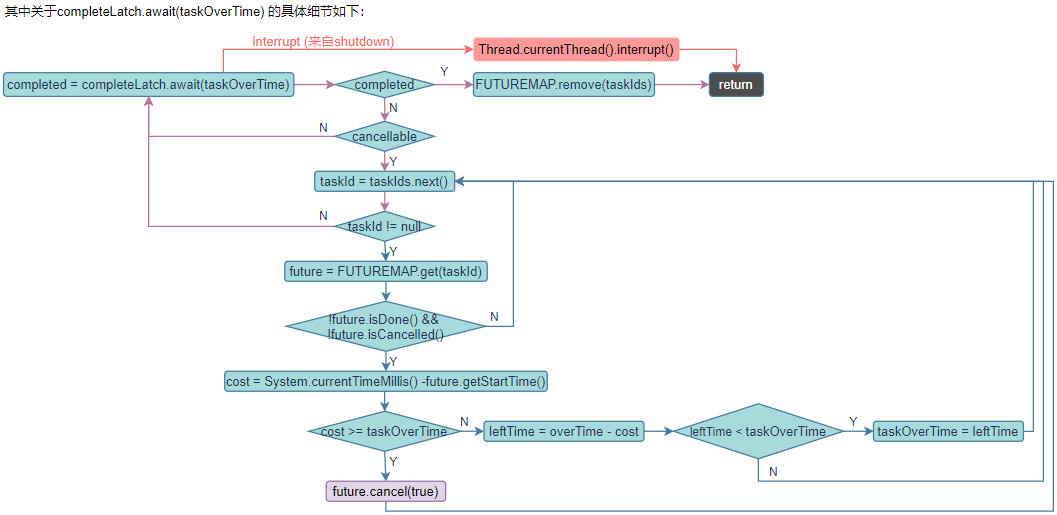
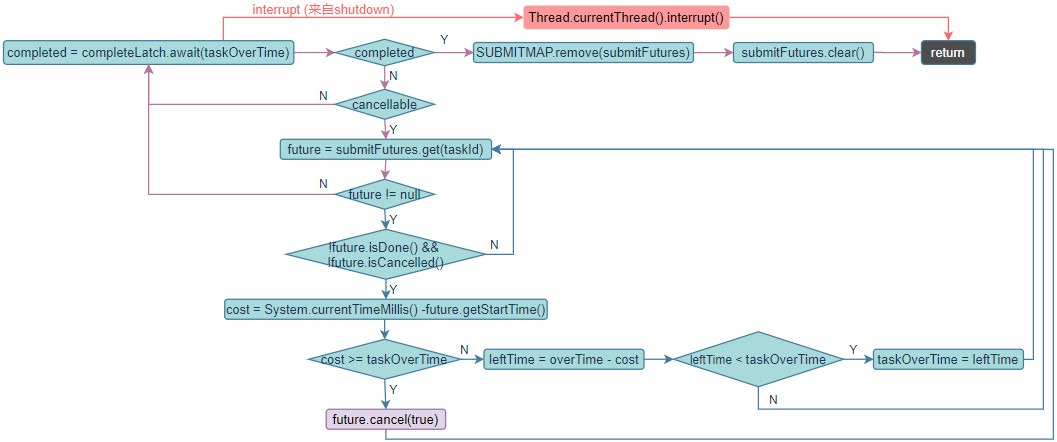
Site updated: 2021-03-10 01:10:26

Changed region(s): [[0.0, 0.0, 0.9991, 1.0]]

diff --git a/2019/07/02/20190702/index.html b/2019/07/02/20190702/index.html
@@ -6,7 +6,8 @@
   <title>借助ThreadPool实现定时任务. 一. 详细设计 | Essay</title>
   <meta name="author" content="shanhm1991">
   
-  <meta name="description" content="引言">
+  <meta name="description" content="引言写这个工具最开始是为了处理各种离线数据文件的需求，涉及到定时处理或者批处理等等，当时也是因为条件有限所以就自己造了这样一个轮子，也由于是为了文件处理，所以就取名为fom。fom中以Context为模块单位，其在内部维护了一个线程池和一个自定义的轮询线程来控制任务的执行计划，并自定义了一套状态转换机制。对于具体的任务则抽象为Task，其相当于在Callable的基础上定义了一个执行的方法模板，
+并加了一些限制，比如强制要求任务id。至于其它操作和功能都是在Context和Task这两个基础上进行，本质上还是围绕着线程池在实现。">
   
   
   <meta name="viewport" content="width=device-width, initial-scale=1, maximum-scale=1">
@@ -85,7 +86,7 @@
 <script async src="//busuanzi.ibruce.info/busuanzi/2.3/busuanzi.pure.mini.js"></script>
 
 
-   <font style="color: #999;"> words: 451  &nbsp;&nbsp; views: <span id="busuanzi_value_page_pv"></span> &nbsp;&nbsp; time: 1min</font>
+   <font style="color: #999;"> words: 2.4k  &nbsp;&nbsp; views: <span id="busuanzi_value_page_pv"></span> &nbsp;&nbsp; time: 10min</font>
    
    
   
@@ -111,25 +112,52 @@
       
     <div class="e-content entry" itemprop="articleBody">
       
-        <h2 id="引言"><a href="#引言" class="headerlink" title="引言"></a>引言</h2><a id="more"></a>
+        <h2 id="引言"><a href="#引言" class="headerlink" title="引言"></a>引言</h2><p>写这个工具最开始是为了处理各种离线数据文件的需求，涉及到定时处理或者批处理等等，当时也是因为条件有限所以就自己造了这样一个轮子，也由于是为了文件处理，所以就取名为fom。<br>fom中以Context为模块单位，其在内部维护了一个线程池和一个自定义的轮询线程来控制任务的执行计划，并自定义了一套状态转换机制。对于具体的任务则抽象为Task，其相当于在Callable的基础上定义了一个执行的方法模板，
+并加了一些限制，比如强制要求任务id。至于其它操作和功能都是在Context和Task这两个基础上进行，本质上还是围绕着线程池在实现。</p>
+<a id="more"></a>
 
-
-<h3 id="1-支持功能"><a href="#1-支持功能" class="headerlink" title="1. 支持功能"></a>1. 支持功能</h3><ol>
-<li>支持三种定时语义(与spring schedule一样)，cron：按时间计划表执行；fixedRate：任务开始后等待指定时间执行；fixedDelay：任务结束后等待指定时间执行；</li>
-<li>支持动态关闭或启动定时任务，不需要重启服务，并可以自定义关闭时的事件处理；</li>
-<li>支持手动执行任务，即如果还没到设置的执行时间，可以手动使其立即执行，同时也可以手动提交任务（因为本身内部是就是利用的线程池）；</li>
-<li>支持任务超时设置，即当任务执行超过设置时间后，可以及时主动中断任务</li>
-<li>支持任务冲突，限制每个任务都必须有一个全局唯一的id，如果id已经存在对应的任务并且还没有结束，则id对应的当前任务会被忽略；</li>
+<h3 id="1-功能实现"><a href="#1-功能实现" class="headerlink" title="1. 功能实现"></a>1. 功能实现</h3><ol>
+<li>支持三种定时语义(类似spring schedule)，cron：按时间计划表执行；fixedRate：任务开始后等待指定时间执行；fixedDelay：任务结束后等待指定时间执行；</li>
+<li>支持动态关闭(shutDown)或启动(startup)定时任务，不需要重启服务，并可以自定义关闭时的事件处理onScheduleTerminate；</li>
+<li>支持手动执行任务，即如果还没到设置的执行时间，可以手动使其立即执行(execNow)，同时也可以手动提交任务（因为本身内部是就是利用的线程池）；</li>
+<li>支持任务超时检测，即当任务执行超过设置时间后，可以及时主动中断任务</li>
+<li>支持任务冲突检测，限制每个任务都必须有一个全局唯一的id，如果id已存在对应的任务并且还未结束，则id对应的当前任务会被忽略；</li>
 <li>支持实时修改定时计划等配置，以及其它自定义配置；</li>
 <li>支持持久化，即配置修改完之后如果重启，修改依然生效；</li>
-<li>支持批任务，即可以定时执行一批任务集合，并且可以定义批任务全部执行完成时的事件处理（当然上面单个任务同样也可以），在事件中可以拿到当前批任务结果（其实也支持手动提交，如果没有定时可以将其当成CompletionService）</li>
-<li>支持一些的简单的界面运维，比如查看任务统计或者正在执行的任务堆栈，下载已经完成任务结果数据，实时修改定时任务的配置或状态等等</li>
+<li>支持批任务，即可以定时执行一批任务集合，并且可以定义批任务全部执行完成时的事件处理onScheduleComplete（当然上面单个任务同样也可以），在事件中可以拿到当前批任务结果（其实也支持手动提交，如果没有定时可以将其当成CompletionService）</li>
+<li>支持一些的简单的界面运维，比如查看任务统计或者正在执行的任务堆栈，下载已经完成任务结果数据，实时修改配置等等</li>
 <li>支持xml配置或者注解的使用方式，简单易用；</li>
 </ol>
-<h3 id="2-实现思路"><a href="#2-实现思路" class="headerlink" title="2. 实现思路"></a>2. 实现思路</h3><p><img src="/img/20190702/20190702.1.jpg" alt=""></p>
+<h3 id="2-实现思路"><a href="#2-实现思路" class="headerlink" title="2. 实现思路"></a>2. 实现思路</h3><p>下图已经对Context中的具体实现做了非常详细的说明，可以看出<font color="#9E0152">在初始化之后，整个流程运行起来其实是一个无限循环，出口只有两种情况：即下次执行时间的计算结果为0，即没有配置任何定时计划；
+或者检测到状态为STOPPING（正在停止）。</font>   </p>
 <p><img src="/img/20190702/20190702.2.jpg" alt=""></p>
-<p><img src="/img/20190702/20190702.3.jpg" alt=""></p>
+<p>下面对照图中的流程对一些主要的功能实现做一些说明 </p>
+<h4 id="2-1-onScheduleComplete"><a href="#2-1-onScheduleComplete" class="headerlink" title="2.1 onScheduleComplete"></a>2.1 onScheduleComplete</h4><p>onScheduleComplete语义很简单，就是等所有任务提交完并且所有提交的任务都完成时便执行，主要借以下三个变量来实现：</p>
+<figure class="highlight java"><figcaption><span class="fileDir">https://github.com/shanhm1991/fom/blob/master/fom-context/src/main/java/org/eto/fom/context/core/</span><span class="caption">Context.java</span></figcaption><table><tr><td class="gutter"><pre><span class="line">1</span><br><span class="line">2</span><br><span class="line">3</span><br><span class="line">4</span><br><span class="line">5</span><br><span class="line">6</span><br><span class="line">7</span><br><span class="line">8</span><br><span class="line">9</span><br><span class="line">10</span><br><span class="line">11</span><br><span class="line">12</span><br><span class="line">13</span><br><span class="line">14</span><br><span class="line">15</span><br><span class="line">16</span><br></pre></td><td class="code"><pre><span class="line"><span class="keyword">static</span> <span class="class"><span class="keyword">class</span> <span class="title">ScheduleBatch</span>&lt;<span class="title">E</span>&gt; </span>&#123;</span><br><span class="line"></span><br><span class="line">    <span class="keyword">private</span> <span class="keyword">volatile</span> <span class="keyword">boolean</span> hasSubmitCompleted = <span class="keyword">false</span>;</span><br><span class="line"></span><br><span class="line">    <span class="keyword">private</span> <span class="keyword">final</span> AtomicInteger taskNotCompleted = <span class="keyword">new</span> AtomicInteger(<span class="number">1</span>);</span><br><span class="line"></span><br><span class="line">    <span class="keyword">private</span> <span class="keyword">final</span> CountDownLatch completeLatch = <span class="keyword">new</span> CountDownLatch(<span class="number">1</span>);</span><br><span class="line">	</span><br><span class="line">    <span class="comment">// ...		</span></span><br><span class="line">	</span><br><span class="line">    <span class="function"><span class="keyword">public</span> <span class="keyword">boolean</span> <span class="title">waitTaskCompleted</span><span class="params">(<span class="keyword">long</span> taskOverTime)</span> <span class="keyword">throws</span> InterruptedException</span>&#123;</span><br><span class="line">        <span class="keyword">return</span> completeLatch.await(taskOverTime, TimeUnit.SECONDS);</span><br><span class="line">    &#125;</span><br><span class="line">	</span><br><span class="line">    <span class="comment">// ...	</span></span><br><span class="line">&#125;</span><br></pre></td></tr></table></figure>
 
+<p><font color="#9E0152">每提交一个任务taskNotCompleted增1（由提交线程负责），每完成一个任务taskNotCompleted则减1（由任务线程负责），另外taskNotCompleted初始值为1（提交线程提交完任务也会将其减1），
+这样当hasSubmitCompleted为true并且taskNotCompleted值0时，就可以保证所有任务必然都已经提交并且执行完了。</font></p>
+<h4 id="2-2-任务超时检测"><a href="#2-2-任务超时检测" class="headerlink" title="2.2. 任务超时检测"></a>2.2. 任务超时检测</h4><p>对于上面所说的等待任务结束，即上面流程图中的<code>completeLatch.await(taskOverTime)</code>，有一些细节需要说明，其流程如下：</p>
+<p><img src="/img/20190702/20190702.3.jpg" alt=""></p>
+<p>可以看到<font color="#9E0152">等待任务执行完成本身也是一个无限循环，只有当所有任务全部完成（completeLatch放开）或者等待被中断才会退出，如果是被中断，那么再退出之前会恢复中断标记，以便后面能够处理。<br>对于循环等待的时间为设置的超时时间（有默认值），如果任务允许取消，那么每次等待完便会检查没有完成的任务，对于已经超时的任务则取消，对于没有超时的任务则获取一个最近要超时的任务的等待时间，以便能下次等待能及时检测到超时。</font></p>
+<figure class="highlight java"><figcaption><span class="fileDir">https://github.com/shanhm1991/fom/blob/master/fom-context/src/main/java/org/eto/fom/context/core/</span><span class="caption">Context.java</span></figcaption><table><tr><td class="gutter"><pre><span class="line">1</span><br><span class="line">2</span><br><span class="line">3</span><br><span class="line">4</span><br><span class="line">5</span><br><span class="line">6</span><br><span class="line">7</span><br><span class="line">8</span><br><span class="line">9</span><br><span class="line">10</span><br><span class="line">11</span><br><span class="line">12</span><br><span class="line">13</span><br><span class="line">14</span><br><span class="line">15</span><br><span class="line">16</span><br><span class="line">17</span><br><span class="line">18</span><br><span class="line">19</span><br><span class="line">20</span><br><span class="line">21</span><br><span class="line">22</span><br><span class="line">23</span><br><span class="line">24</span><br><span class="line">25</span><br><span class="line">26</span><br><span class="line">27</span><br><span class="line">28</span><br><span class="line">29</span><br><span class="line">30</span><br><span class="line">31</span><br><span class="line">32</span><br><span class="line">33</span><br><span class="line">34</span><br><span class="line">35</span><br><span class="line">36</span><br><span class="line">37</span><br><span class="line">38</span><br><span class="line">39</span><br><span class="line">40</span><br><span class="line">41</span><br><span class="line">42</span><br><span class="line">43</span><br><span class="line">44</span><br><span class="line">45</span><br><span class="line">46</span><br><span class="line">47</span><br><span class="line">48</span><br></pre></td><td class="code"><pre><span class="line"><span class="function"><span class="keyword">private</span> <span class="keyword">void</span> <span class="title">waitTaskCompleted</span><span class="params">(ScheduleBatch&lt;E&gt; scheduleBatch)</span></span>&#123;</span><br><span class="line">    <span class="keyword">if</span>(scheduleBatch == <span class="keyword">null</span>)&#123;</span><br><span class="line">        <span class="keyword">return</span>;</span><br><span class="line">    &#125;</span><br><span class="line"></span><br><span class="line">    <span class="keyword">try</span> &#123;</span><br><span class="line">        <span class="keyword">long</span> overTime = config.getOverTime();</span><br><span class="line">        <span class="keyword">while</span>(<span class="keyword">true</span>)&#123;</span><br><span class="line marked">            <span class="keyword">if</span>(scheduleBatch.waitTaskCompleted(overTime))&#123; </span><br><span class="line">                cleanCompletedFutures();</span><br><span class="line">                <span class="keyword">return</span>;</span><br><span class="line">            &#125;<span class="keyword">else</span> <span class="keyword">if</span>(config.getCancellable())&#123;</span><br><span class="line">                <span class="keyword">for</span>(TimedFuture&lt;Result&lt;E&gt;&gt; future : submitFutures)&#123;</span><br><span class="line">                    <span class="keyword">if</span>(!future.isDone() &amp;&amp; !future.isCancelled())&#123;</span><br><span class="line">                        <span class="keyword">long</span> cost = System.currentTimeMillis() - future.getStartTime(); </span><br><span class="line">                        <span class="keyword">if</span>(cost &gt;= overTime * SECOND_UNIT)&#123;</span><br><span class="line">                            log.warn(<span class="string">"cancle task[&#123;&#125;] which has time out, cost=&#123;&#125;ms"</span>, future.getTaskId(), cost);</span><br><span class="line">                            future.cancel(<span class="keyword">true</span>);</span><br><span class="line">                        &#125;<span class="keyword">else</span>&#123;</span><br><span class="line">                            <span class="keyword">long</span> leftTime = overTime - cost / SECOND_UNIT;</span><br><span class="line">                            <span class="keyword">if</span>(leftTime &lt; overTime)&#123;</span><br><span class="line">                                overTime = leftTime;</span><br><span class="line">                            &#125;</span><br><span class="line">                        &#125;</span><br><span class="line">                    &#125;</span><br><span class="line">                &#125;</span><br><span class="line">            &#125;</span><br><span class="line">        &#125;</span><br><span class="line">    &#125; <span class="keyword">catch</span> (InterruptedException e) &#123;</span><br><span class="line">        Thread.currentThread().interrupt(); <span class="comment">// 保留中断请求，留给后面wait检测处理</span></span><br><span class="line">    &#125;</span><br><span class="line">&#125;</span><br><span class="line"></span><br><span class="line"><span class="function"><span class="keyword">private</span> <span class="keyword">void</span> <span class="title">cleanCompletedFutures</span><span class="params">()</span></span>&#123; </span><br><span class="line">    <span class="comment">// 可能当前Context本次提交的task完成后，又有其它Context用同样的taskId提交了任务并正在执行</span></span><br><span class="line">    <span class="comment">// 使用同步，是因为存在先获取后判断的线程安全问题，ConcurrentHashMap并不能解决问题</span></span><br><span class="line">    <span class="comment">// 将当前提交的future在taskIdList中记录一份，是为了在waitTaskCompleted中检测超时不用需要参与FUTUREMAP的同步</span></span><br><span class="line">    <span class="keyword">synchronized</span> (SUBMITMAP) &#123;</span><br><span class="line">        <span class="keyword">for</span>(TimedFuture&lt;Result&lt;E&gt;&gt; currentFuture : submitFutures)&#123;</span><br><span class="line">            String taskId = currentFuture.getTaskId();</span><br><span class="line">            TimedFuture&lt;Result&lt;?&gt;&gt; otherFuture = SUBMITMAP.get(taskId);</span><br><span class="line">            <span class="keyword">if</span>(otherFuture.isDone())&#123; </span><br><span class="line">                SUBMITMAP.remove(taskId);</span><br><span class="line">            &#125;</span><br><span class="line">        &#125;</span><br><span class="line">    &#125;</span><br><span class="line">    submitFutures.clear();</span><br><span class="line">&#125;</span><br></pre></td></tr></table></figure>
+
+<h4 id="2-3-execNow与shutDown"><a href="#2-3-execNow与shutDown" class="headerlink" title="2.3. execNow与shutDown"></a>2.3. execNow与shutDown</h4><p>对于定时任务的状态，可以由定时之外的其它线程来改变，但是限制了状态转换规则如下：</p>
+<p><img src="/img/20190702/20190702.1.jpg" alt=""></p>
+<p><font color="#9E0152">对于execNow，只有在定时任务状态为SLEEPING时才会处理，此时定时线程处于阻塞状态，等待下次执行时间，实现很简单，直接中断定时线程即可；<br>对于shutDown，定时任务的状态可能为SLEEPING或者RUNNING，其处理是将状态切换为STOPPING，然后再中断定时线程。<br>如果状态为SLEEPING，则同样定时线程阻塞在<code>wait(waitTime)</code>，等待下次执行时间，收到中断后立即退出等待，进而很快检测到状态为STOPPING，然后等待任务线程池关闭；如果状态为RUNNING，则首先会在2.2的等待中检测到中断，
+其处理是保留中断并立即退出，接着将很快在<code>wait(waitTime)</code>再次检测到中断而退出，然后同样很快检测到STOPPING而转入结束等待，即等待所有任务结束及线程池关闭；</font></p>
+<p>下面说一下几种定时任务退出的情形：</p>
+<ol>
+<li>如果是被shutDown，那么将会<code>pool.shutdownNow()</code>使任务尽快退出，然后一直等待任务结束，并且忽略任何中断请求，如下面的实现；</li>
+<li>如果execOnLoad=true（加载时执行），并且没有配置任何定时计划，那么将在启动时执行一次然后自行终结，此时<code>pool.shutdown()</code>即可（实际上任务已经结束）；</li>
+<li>如果execOnLoad=false，并且也没有配置任何定时计划，那么直接退出，并且保留初始化后的线程池，此时就将其纯粹当成一个线程池来使用，可以手动提交任务；</li>
+</ol>
+<figure class="highlight java"><figcaption><span class="fileDir">https://github.com/shanhm1991/fom/blob/master/fom-context/src/main/java/org/eto/fom/context/core/</span><span class="caption">Context.java</span></figcaption><table><tr><td class="gutter"><pre><span class="line">1</span><br><span class="line">2</span><br><span class="line">3</span><br><span class="line">4</span><br><span class="line">5</span><br><span class="line">6</span><br><span class="line">7</span><br><span class="line">8</span><br><span class="line">9</span><br><span class="line">10</span><br><span class="line">11</span><br><span class="line">12</span><br><span class="line">13</span><br><span class="line">14</span><br><span class="line">15</span><br><span class="line">16</span><br><span class="line">17</span><br><span class="line">18</span><br><span class="line">19</span><br><span class="line">20</span><br><span class="line">21</span><br><span class="line">22</span><br><span class="line">23</span><br><span class="line">24</span><br><span class="line">25</span><br><span class="line">26</span><br><span class="line">27</span><br><span class="line">28</span><br><span class="line">29</span><br><span class="line">30</span><br><span class="line">31</span><br><span class="line">32</span><br><span class="line">33</span><br><span class="line">34</span><br><span class="line">35</span><br><span class="line">36</span><br><span class="line">37</span><br><span class="line">38</span><br><span class="line">39</span><br><span class="line">40</span><br><span class="line">41</span><br></pre></td><td class="code"><pre><span class="line"><span class="function"><span class="keyword">private</span> <span class="keyword">void</span> <span class="title">terminate</span><span class="params">()</span></span>&#123;</span><br><span class="line">    <span class="comment">//switchState(WAITING);</span></span><br><span class="line">    config.pool.shutdown();</span><br><span class="line"></span><br><span class="line">    <span class="keyword">if</span>(waitTask())&#123;</span><br><span class="line">        <span class="keyword">try</span>&#123;</span><br><span class="line">            onScheduleTerminate(schedulTimes, lastTime);</span><br><span class="line">        &#125;<span class="keyword">catch</span>(Exception e)&#123;</span><br><span class="line">            log.error(<span class="string">""</span>, e); </span><br><span class="line">        &#125;</span><br><span class="line">        switchState(STOPPED);</span><br><span class="line">        isFirstRun = <span class="keyword">true</span>;</span><br><span class="line">    &#125;</span><br><span class="line"></span><br><span class="line">    cleanCompletedFutures();</span><br><span class="line">&#125;</span><br><span class="line">		</span><br><span class="line"><span class="function"><span class="keyword">private</span> <span class="keyword">boolean</span> <span class="title">waitTask</span><span class="params">()</span></span>&#123;</span><br><span class="line">    <span class="keyword">boolean</span> isStopping = <span class="keyword">false</span>;</span><br><span class="line">    <span class="keyword">while</span>(<span class="keyword">true</span>)&#123;</span><br><span class="line">        <span class="keyword">if</span>(!isStopping)&#123;</span><br><span class="line">            <span class="keyword">synchronized</span> (Context.<span class="keyword">this</span>) &#123;</span><br><span class="line">                <span class="keyword">if</span>(state == STOPPING)&#123;</span><br><span class="line">                    isStopping = <span class="keyword">true</span>;</span><br><span class="line">                    config.pool.shutdownNow();</span><br><span class="line">                &#125;</span><br><span class="line">            &#125;</span><br><span class="line">        &#125;</span><br><span class="line"></span><br><span class="line">        <span class="keyword">try</span> &#123;</span><br><span class="line">            <span class="keyword">if</span>(config.pool.awaitTermination(<span class="number">1</span>, TimeUnit.DAYS))&#123;</span><br><span class="line">                log.info(<span class="string">"context[&#123;&#125;] stoped."</span>, name);</span><br><span class="line">                <span class="keyword">return</span> <span class="keyword">true</span>;</span><br><span class="line">            &#125;<span class="keyword">else</span> <span class="keyword">if</span>(isStopping)&#123;</span><br><span class="line">                log.warn(<span class="string">"context[&#123;&#125;] is still stopping, though has waiting for a day."</span>, name);</span><br><span class="line">            &#125;</span><br><span class="line">        &#125; <span class="keyword">catch</span> (InterruptedException e) &#123;</span><br><span class="line">            log.warn(<span class="string">"interrupt ignore when waiting task completetion."</span>); </span><br><span class="line">        &#125;</span><br><span class="line">    &#125;</span><br><span class="line">&#125;</span><br></pre></td></tr></table></figure>
+
+<h4 id="2-4-任务冲突检测"><a href="#2-4-任务冲突检测" class="headerlink" title="2.4. 任务冲突检测"></a>2.4. 任务冲突检测</h4><p>这里实现很简单，就是根据任务id检测冲突</p>
+<figure class="highlight java"><figcaption><span class="fileDir">https://github.com/shanhm1991/fom/blob/master/fom-context/src/main/java/org/eto/fom/context/core/</span><span class="caption">Context.java</span></figcaption><table><tr><td class="gutter"><pre><span class="line">1</span><br><span class="line">2</span><br><span class="line">3</span><br><span class="line">4</span><br><span class="line">5</span><br><span class="line">6</span><br><span class="line">7</span><br><span class="line">8</span><br><span class="line">9</span><br><span class="line">10</span><br><span class="line">11</span><br><span class="line">12</span><br><span class="line">13</span><br><span class="line">14</span><br><span class="line">15</span><br><span class="line">16</span><br><span class="line">17</span><br><span class="line">18</span><br><span class="line">19</span><br><span class="line">20</span><br><span class="line">21</span><br><span class="line">22</span><br><span class="line">23</span><br><span class="line">24</span><br><span class="line">25</span><br><span class="line">26</span><br><span class="line">27</span><br><span class="line">28</span><br><span class="line">29</span><br><span class="line">30</span><br><span class="line">31</span><br><span class="line">32</span><br><span class="line">33</span><br><span class="line">34</span><br><span class="line">35</span><br><span class="line">36</span><br><span class="line">37</span><br><span class="line">38</span><br><span class="line">39</span><br><span class="line">40</span><br><span class="line">41</span><br><span class="line">42</span><br><span class="line">43</span><br><span class="line">44</span><br><span class="line">45</span><br><span class="line">46</span><br><span class="line">47</span><br><span class="line">48</span><br><span class="line">49</span><br><span class="line">50</span><br><span class="line">51</span><br><span class="line">52</span><br><span class="line">53</span><br><span class="line">54</span><br><span class="line">55</span><br><span class="line">56</span><br><span class="line">57</span><br><span class="line">58</span><br><span class="line">59</span><br><span class="line">60</span><br><span class="line">61</span><br><span class="line">62</span><br><span class="line">63</span><br><span class="line">64</span><br><span class="line">65</span><br></pre></td><td class="code"><pre><span class="line"><span class="comment">// 所有Context共用，以便根据id实现任务冲突检测</span></span><br><span class="line"><span class="keyword">private</span> <span class="keyword">static</span> <span class="keyword">final</span> Map&lt;String,TimedFuture&lt;Result&lt;?&gt;&gt;&gt; SUBMITMAP = <span class="keyword">new</span> HashMap&lt;&gt;(<span class="number">1024</span>);</span><br><span class="line"></span><br><span class="line marked"><span class="comment">// 当前Context当前提交的任务Future</span></span><br><span class="line"><span class="keyword">private</span> List&lt;TimedFuture&lt;Result&lt;E&gt;&gt;&gt; submitFutures = <span class="keyword">new</span> ArrayList&lt;&gt;();</span><br><span class="line"></span><br><span class="line"><span class="function"><span class="keyword">private</span> <span class="keyword">void</span> <span class="title">runSchedul</span><span class="params">()</span> <span class="keyword">throws</span> Exception </span>&#123; </span><br><span class="line"></span><br><span class="line">    switchState(RUNNING);</span><br><span class="line"></span><br><span class="line">    schedulTimes++;</span><br><span class="line"></span><br><span class="line">    lastTime = System.currentTimeMillis();</span><br><span class="line"></span><br><span class="line">    ScheduleBatch&lt;E&gt; schedulebatch = <span class="keyword">new</span> ScheduleBatch&lt;&gt;(<span class="keyword">true</span>, schedulTimes, lastTime);</span><br><span class="line">    Task&lt;E&gt; task = <span class="keyword">null</span>;</span><br><span class="line">    <span class="keyword">try</span>&#123;</span><br><span class="line">        Collection&lt;? extends Task&lt;E&gt;&gt; tasks = newSchedulTasks();</span><br><span class="line">        <span class="keyword">if</span>(!CollectionUtils.isEmpty(tasks))&#123;</span><br><span class="line">            <span class="keyword">synchronized</span> (SUBMITMAP)&#123;</span><br><span class="line">                <span class="keyword">for</span> (Task&lt;E&gt; t : tasks) &#123;</span><br><span class="line">                    task = t;</span><br><span class="line">                    task.scheduleBatch = schedulebatch;</span><br><span class="line">                    String taskId = task.getId();</span><br><span class="line">                    <span class="keyword">if</span> (isTaskAlive(taskId)) &#123;</span><br><span class="line">                        log.warn(<span class="string">"task[&#123;&#125;] is still alive, create canceled."</span>, taskId);</span><br><span class="line">                        <span class="keyword">continue</span>;</span><br><span class="line">                    &#125;</span><br><span class="line"></span><br><span class="line">                    TimedFuture future = submit(task);</span><br><span class="line">                    SUBMITMAP.put(taskId, future);    </span><br><span class="line">                    submitFutures.add(future);</span><br><span class="line">                &#125;</span><br><span class="line">            &#125;</span><br><span class="line">        &#125;</span><br><span class="line">    &#125; <span class="keyword">catch</span> (RejectedExecutionException e) &#123;</span><br><span class="line">        Assert.notNull(task, <span class="string">""</span>);</span><br><span class="line">        log.warn(<span class="string">"task["</span> + task.getId() + <span class="string">"] submit rejected."</span>, e);</span><br><span class="line">    &#125;<span class="keyword">finally</span>&#123; </span><br><span class="line">        schedulebatch.submitCompleted();</span><br><span class="line">        checkScheduleComplete(schedulebatch);</span><br><span class="line marked">        caculateNextTime(schedulebatch); </span><br><span class="line marked">    &#125;</span><br><span class="line">&#125;</span><br><span class="line">		</span><br><span class="line"><span class="function"><span class="keyword">private</span> <span class="keyword">boolean</span> <span class="title">isTaskAlive</span><span class="params">(String key)</span></span>&#123;</span><br><span class="line">    Future&lt;Result&lt;?&gt;&gt; future = SUBMITMAP.get(key);</span><br><span class="line">    <span class="keyword">return</span> future != <span class="keyword">null</span> &amp;&amp; !future.isDone();</span><br><span class="line">&#125;</span><br><span class="line">	</span><br><span class="line"><span class="keyword">public</span> TimedFuture&lt;Result&lt;E&gt;&gt; submit(Task&lt;E&gt; task) &#123;</span><br><span class="line">    <span class="keyword">if</span>(SUBMITS.incrementAndGet() % SECOND_UNIT == <span class="number">0</span>)&#123;</span><br><span class="line">        Monitor.jvm();</span><br><span class="line">    &#125;</span><br><span class="line"></span><br><span class="line">    String taskId = task.getId();</span><br><span class="line">    task.setContext(Context.<span class="keyword">this</span>); </span><br><span class="line"></span><br><span class="line marked">    TimedFuture&lt;Result&lt;E&gt;&gt; future = config.pool.submit(task);</span><br><span class="line">    <span class="keyword">if</span>(task.scheduleBatch != <span class="keyword">null</span>)&#123;</span><br><span class="line">        task.scheduleBatch.increaseTaskNotCompleted();</span><br><span class="line">    &#125;</span><br><span class="line">    log.info(<span class="string">"task[&#123;&#125;] submitted."</span>, taskId); </span><br><span class="line">    <span class="keyword">return</span> future; </span><br><span class="line">	&#125;</span><br></pre></td></tr></table></figure>
+
+<h4 id="2-5-FomSchedul"><a href="#2-5-FomSchedul" class="headerlink" title="2.5. FomSchedul"></a>2.5. FomSchedul</h4>
       
     </div>
 	
@@ -140,7 +168,7 @@
 	<nav id="pagination">
 	  
 		  <a class="alignleft prev" href="/2019/07/04/20190704/">
-		    借助ThreadPool实现定时任务. 二. 使用示例
+		    借助ThreadPool实现定时任务. 二. 使用文档
 		  </a>
 	  
 	  
@@ -224,7 +252,7 @@
 <div class="widget catlog">
 <h3 class="title">Catlog</h3>
 <ul class="entry_catlog">
-<ol class="toc"><li class="toc-item toc-level-2"><a class="toc-link" href="#引言"><span class="toc-text">引言</span></a><ol class="toc-child"><li class="toc-item toc-level-3"><a class="toc-link" href="#1-支持功能"><span class="toc-text">1. 支持功能</span></a></li><li class="toc-item toc-level-3"><a class="toc-link" href="#2-实现思路"><span class="toc-text">2. 实现思路</span></a></li></ol></li></ol>
+<ol class="toc"><li class="toc-item toc-level-2"><a class="toc-link" href="#引言"><span class="toc-text">引言</span></a><ol class="toc-child"><li class="toc-item toc-level-3"><a class="toc-link" href="#1-功能实现"><span class="toc-text">1. 功能实现</span></a></li><li class="toc-item toc-level-3"><a class="toc-link" href="#2-实现思路"><span class="toc-text">2. 实现思路</span></a><ol class="toc-child"><li class="toc-item toc-level-4"><a class="toc-link" href="#2-1-onScheduleComplete"><span class="toc-text">2.1 onScheduleComplete</span></a></li><li class="toc-item toc-level-4"><a class="toc-link" href="#2-2-任务超时检测"><span class="toc-text">2.2. 任务超时检测</span></a></li><li class="toc-item toc-level-4"><a class="toc-link" href="#2-3-execNow与shutDown"><span class="toc-text">2.3. execNow与shutDown</span></a></li><li class="toc-item toc-level-4"><a class="toc-link" href="#2-4-任务冲突检测"><span class="toc-text">2.4. 任务冲突检测</span></a></li><li class="toc-item toc-level-4"><a class="toc-link" href="#2-5-FomSchedul"><span class="toc-text">2.5. FomSchedul</span></a></li></ol></li></ol></li></ol>
 </div>
 
 

diff --git a/2019/07/04/20190704/index.html b/2019/07/04/20190704/index.html
@@ -3,15 +3,15 @@
 <head>
   <meta charset="utf-8">
   
-  <title>借助ThreadPool实现定时任务. 二. 使用示例 | Essay</title>
+  <title>借助ThreadPool实现定时任务. 二. 使用文档 | Essay</title>
   <meta name="author" content="shanhm1991">
   
-  <meta name="description" content="引言">
+  <meta name="description" content="引言这里只简单说明下fom的模块结构和使用方式，至于具体的实现思路上文已经有过详细介绍">
   
   
   <meta name="viewport" content="width=device-width, initial-scale=1, maximum-scale=1">
 
-  <meta property="og:title" content="借助ThreadPool实现定时任务. 二. 使用示例"/>
+  <meta property="og:title" content="借助ThreadPool实现定时任务. 二. 使用文档"/>
   <meta property="og:site_name" content="Essay"/>
 
   
@@ -73,7 +73,7 @@
   
   
     <h1 class="p-name title" itemprop="headline name">
-        借助ThreadPool实现定时任务. 二. 使用示例
+        借助ThreadPool实现定时任务. 二. 使用文档
     </h1>
     
     
@@ -85,7 +85,7 @@
 <script async src="//busuanzi.ibruce.info/busuanzi/2.3/busuanzi.pure.mini.js"></script>
 
 
-   <font style="color: #999;"> words: 2  &nbsp;&nbsp; views: <span id="busuanzi_value_page_pv"></span> &nbsp;&nbsp; time: 1min</font>
+   <font style="color: #999;"> words: 213  &nbsp;&nbsp; views: <span id="busuanzi_value_page_pv"></span> &nbsp;&nbsp; time: 1min</font>
    
    
   
@@ -111,11 +111,19 @@
       
     <div class="e-content entry" itemprop="articleBody">
       
-        <h2 id="引言"><a href="#引言" class="headerlink" title="引言"></a>引言</h2><a id="more"></a>
+        <h2 id="引言"><a href="#引言" class="headerlink" title="引言"></a>引言</h2><p>这里只简单说明下fom的模块结构和使用方式，至于具体的实现思路上文已经有过详细介绍</p>
+<a id="more"></a>
 
+<h3 id="1-添加依赖"><a href="#1-添加依赖" class="headerlink" title="1. 添加依赖"></a>1. 添加依赖</h3><figure class="highlight plain"><table><tr><td class="gutter"><pre><span class="line">1</span><br><span class="line">2</span><br><span class="line">3</span><br><span class="line">4</span><br><span class="line">5</span><br></pre></td><td class="code"><pre><span class="line">&lt;dependency&gt;</span><br><span class="line">	&lt;groupId&gt;org.eto&lt;&#x2F;groupId&gt;</span><br><span class="line">	&lt;artifactId&gt;fom-boot&lt;&#x2F;artifactId&gt;</span><br><span class="line">	&lt;version&gt;2.0.2&lt;&#x2F;version&gt;</span><br><span class="line">&lt;&#x2F;dependency&gt;</span><br></pre></td></tr></table></figure>
 
-
-
+<p><strong>模块说明</strong></p>
+<ul>
+<li>fom-context: 可以理解成任务模块的上下文，负责创建和组织任务的执行；</li>
+<li>fom-task: 已提供的任务实现，基本与文件处理相关（有些考虑了失败重试机制，比如进程重启）；</li>
+<li>fom-util: 没有上下文依赖的工具类，比如对Text/orc/Excel的读取，适配了统一的Reader，使Excel的读取可以像文本一样简单；</li>
+<li>fom-boot: 将fom的加载放到了springboot的启动过程中；</li>
+<li>fom-example: 使用示例</li>
+</ul>
 
       
     </div>
@@ -207,7 +215,7 @@
 <div class="widget catlog">
 <h3 class="title">Catlog</h3>
 <ul class="entry_catlog">
-<ol class="toc"><li class="toc-item toc-level-2"><a class="toc-link" href="#引言"><span class="toc-text">引言</span></a></li></ol>
+<ol class="toc"><li class="toc-item toc-level-2"><a class="toc-link" href="#引言"><span class="toc-text">引言</span></a><ol class="toc-child"><li class="toc-item toc-level-3"><a class="toc-link" href="#1-添加依赖"><span class="toc-text">1. 添加依赖</span></a></li></ol></li></ol>
 </div>
 
 

diff --git a/index.html b/index.html
@@ -72,7 +72,7 @@
   
   
     <h1 class="title">
-       <a href="/2019/07/04/20190704/">借助ThreadPool实现定时任务. 二. 使用示例</a>
+       <a href="/2019/07/04/20190704/">借助ThreadPool实现定时任务. 二. 使用文档</a>
     </h1>
     
   
@@ -86,7 +86,7 @@
       
     <div class="e-content entry" itemprop="articleBody">
       
-        <h2 id="引言"><a href="#引言" class="headerlink" title="引言"></a>引言</h2>
+        <h2 id="引言"><a href="#引言" class="headerlink" title="引言"></a>引言</h2><p>这里只简单说明下fom的模块结构和使用方式，至于具体的实现思路上文已经有过详细介绍</p>
       
     </div>
 	
@@ -138,7 +138,8 @@
       
     <div class="e-content entry" itemprop="articleBody">
       
-        <h2 id="引言"><a href="#引言" class="headerlink" title="引言"></a>引言</h2>
+        <h2 id="引言"><a href="#引言" class="headerlink" title="引言"></a>引言</h2><p>写这个工具最开始是为了处理各种离线数据文件的需求，涉及到定时处理或者批处理等等，当时也是因为条件有限所以就自己造了这样一个轮子，也由于是为了文件处理，所以就取名为fom。<br>fom中以Context为模块单位，其在内部维护了一个线程池和一个自定义的轮询线程来控制任务的执行计划，并自定义了一套状态转换机制。对于具体的任务则抽象为Task，其相当于在Callable的基础上定义了一个执行的方法模板，
+并加了一些限制，比如强制要求任务id。至于其它操作和功能都是在Context和Task这两个基础上进行，本质上还是围绕着线程池在实现。</p>
       
     </div>
 	

diff --git a/2019/01/01/20190101/index.html b/2019/01/01/20190101/index.html
@@ -101,7 +101,7 @@
    
   
   <div class="tags">
-    <a href="/tags/线程安全/">线程安全</a>   <a href="/tags/《java并发编程实战》/">《java并发编程实战》</a>   <a href="/tags/原子性/">原子性</a>
+    <a href="/tags/线程安全/">线程安全</a>   <a href="/tags/原子性/">原子性</a>   <a href="/tags/《java并发编程实战》/">《java并发编程实战》</a>
   </div>
 
 
@@ -190,7 +190,7 @@
         
   
   <div class="tags">
-    <a href="/tags/线程安全/">线程安全</a>   <a href="/tags/《java并发编程实战》/">《java并发编程实战》</a>   <a href="/tags/原子性/">原子性</a>
+    <a href="/tags/线程安全/">线程安全</a>   <a href="/tags/原子性/">原子性</a>   <a href="/tags/《java并发编程实战》/">《java并发编程实战》</a>
   </div>
 
 

diff --git a/archives/2019/07/index.html b/archives/2019/07/index.html
@@ -70,7 +70,7 @@
             <div class="icon"></div>
             <time datetime="2019-07-03T16:00:00.000Z"><a href="/2019/07/04/20190704/">2019-07-04</a></time>
             
-              <h2 class="title"><a href="/2019/07/04/20190704/">借助ThreadPool实现定时任务. 二. 使用示例</a></h2>
+              <h2 class="title"><a href="/2019/07/04/20190704/">借助ThreadPool实现定时任务. 二. 使用文档</a></h2>
             
           </header>
         </div>

diff --git a/archives/2019/index.html b/archives/2019/index.html
@@ -70,7 +70,7 @@
             <div class="icon"></div>
             <time datetime="2019-07-03T16:00:00.000Z"><a href="/2019/07/04/20190704/">2019-07-04</a></time>
             
-              <h2 class="title"><a href="/2019/07/04/20190704/">借助ThreadPool实现定时任务. 二. 使用示例</a></h2>
+              <h2 class="title"><a href="/2019/07/04/20190704/">借助ThreadPool实现定时任务. 二. 使用文档</a></h2>
             
           </header>
         </div>

diff --git a/archives/index.html b/archives/index.html
@@ -70,7 +70,7 @@
             <div class="icon"></div>
             <time datetime="2019-07-03T16:00:00.000Z"><a href="/2019/07/04/20190704/">2019-07-04</a></time>
             
-              <h2 class="title"><a href="/2019/07/04/20190704/">借助ThreadPool实现定时任务. 二. 使用示例</a></h2>
+              <h2 class="title"><a href="/2019/07/04/20190704/">借助ThreadPool实现定时任务. 二. 使用文档</a></h2>
             
           </header>
         </div>

diff --git a/categories/代码笔记/index.html b/categories/代码笔记/index.html
@@ -70,7 +70,7 @@
             <div class="icon"></div>
             <time datetime="2019-07-03T16:00:00.000Z"><a href="/2019/07/04/20190704/">2019-07-04</a></time>
             
-              <h2 class="title"><a href="/2019/07/04/20190704/">借助ThreadPool实现定时任务. 二. 使用示例</a></h2>
+              <h2 class="title"><a href="/2019/07/04/20190704/">借助ThreadPool实现定时任务. 二. 使用文档</a></h2>
             
           </header>
         </div>

diff --git a/tags/fom/index.html b/tags/fom/index.html
@@ -70,7 +70,7 @@
             <div class="icon"></div>
             <time datetime="2019-07-03T16:00:00.000Z"><a href="/2019/07/04/20190704/">2019-07-04</a></time>
             
-              <h2 class="title"><a href="/2019/07/04/20190704/">借助ThreadPool实现定时任务. 二. 使用示例</a></h2>
+              <h2 class="title"><a href="/2019/07/04/20190704/">借助ThreadPool实现定时任务. 二. 使用文档</a></h2>
             
           </header>
         </div>
